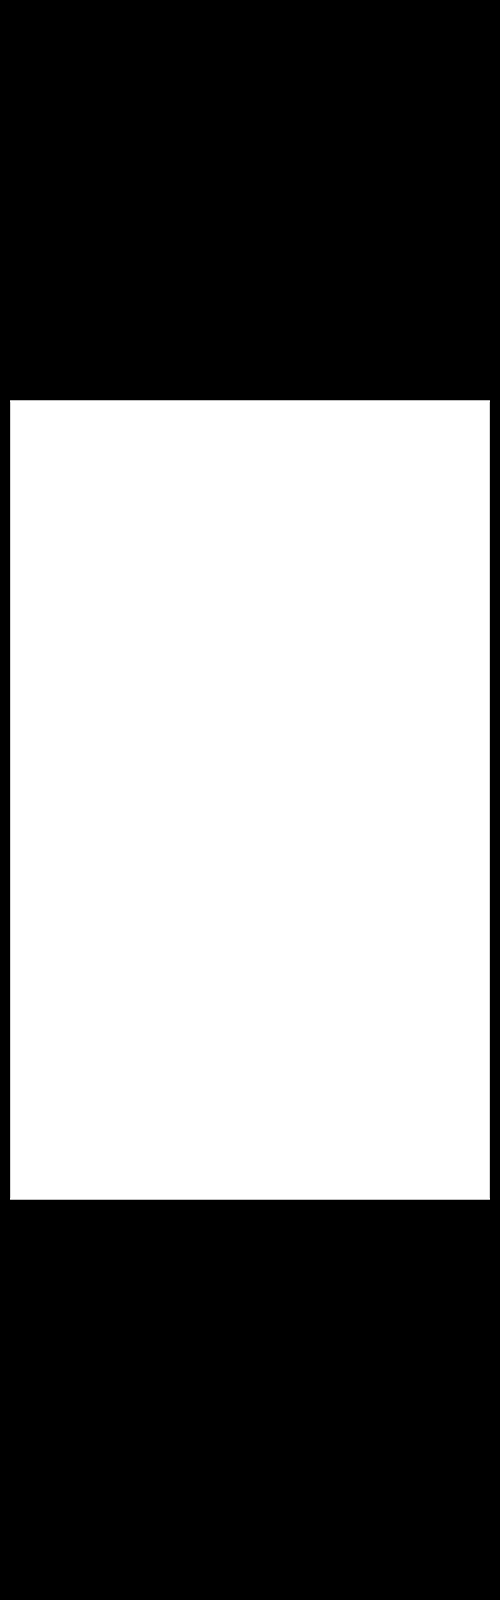
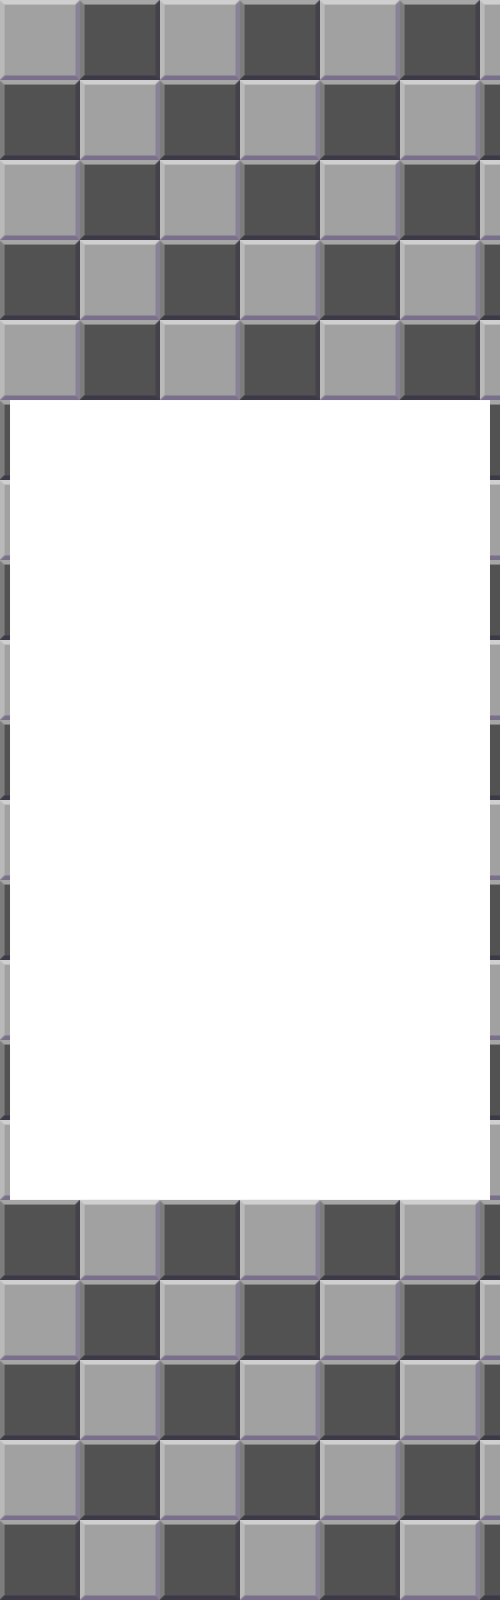
The previos one only made it pretty on desktop so I'm trying to make it work on both.

diff --git a/core/src/com/nnldev/fartlek/Fartlek.java b/core/src/com/nnldev/fartlek/Fartlek.java
@@ -4,6 +4,7 @@
  */
 package com.nnldev.fartlek;
 
+import com.badlogic.gdx.Application;
 import com.badlogic.gdx.ApplicationAdapter;
 import com.badlogic.gdx.Gdx;
 import com.badlogic.gdx.Input;
@@ -35,7 +36,7 @@ public class Fartlek extends ApplicationAdapter implements InputProcessor {
     private SpriteBatch batch;
     private GameStateManager gsm;
     private float accDelta;
-    private Texture border;
+    public Texture border;
     //private FPSLogger fpsLogger;
 
     /**
@@ -72,24 +73,32 @@ public class Fartlek extends ApplicationAdapter implements InputProcessor {
         if (scrnHeight <= HEIGHT) {
             cam.setToOrtho(false, WIDTH, HEIGHT);
         } else {
-            cam.setToOrtho(false, WIDTH, scrnHeight);
-            cam.position.set(0, ((scrnHeight - HEIGHT) / 2), 0);
+            if (Gdx.app.getType() == Application.ApplicationType.Desktop) {
+                cam.setToOrtho(false, WIDTH, scrnHeight);
+            } else {
+                cam.setToOrtho(false, WIDTH, 900);
+            }
+            cam.position.set(0, cam.viewportHeight/2f, 0);
         }
         accDelta += Gdx.graphics.getDeltaTime();
         updateAccValues();
         printAccValues(accDelta);
-        //So I was planning on making it so the screen was fulyl adjustable and stuff and would scale some stuff easier for larger screens but nah.
-        //fpsLogger.log();
         scrnVertBezel = (scrnHeight - WIDTH) / 2;
         Gdx.input.setInputProcessor(this);
         Gdx.gl.glClear(GL20.GL_COLOR_BUFFER_BIT);
         gsm.update(Gdx.graphics.getDeltaTime());
         gsm.render(batch);
+        batch.setProjectionMatrix(cam.combined);
         batch.begin();
-        batch.draw(border, -(border.getWidth() - WIDTH) / 2, -(border.getHeight() - Gdx.graphics.getHeight()) / 2);
+        batch.draw(border, -(border.getWidth() - WIDTH) / 2, -(border.getHeight() / 4));
         batch.end();
     }
 
+    /**
+     * Prints the accelerometer values in regular intervals.
+     *
+     * @param accDelta
+     */
     public void printAccValues(float accDelta) {
         if (accDelta >= 0.5f && ACCELEROMETER_AVAILABLE) {
             System.out.println("GYRO - (X: " + ACCEL.x + " Y: " + ACCEL.y + " Z: " + ACCEL.z + ")");

diff --git a/core/src/com/nnldev/fartlek/states/MenuState.java b/core/src/com/nnldev/fartlek/states/MenuState.java
@@ -82,7 +82,6 @@ public class MenuState extends State {
         sb.setProjectionMatrix(Fartlek.cam.combined);
         sb.begin();
         sb.draw(playBtn.getTexture(), playBtn.getPosition().x, playBtn.getPosition().y);
-
         sb.draw(settingsBtn.getTexture(), settingsBtn.getPosition().x, settingsBtn.getPosition().y);
         sb.draw(infoBtn.getTexture(), infoBtn.getPosition().x, infoBtn.getPosition().y);
         sb.draw(runnerBtn.getTexture(), runnerBtn.getPosition().x, runnerBtn.getPosition().y);
